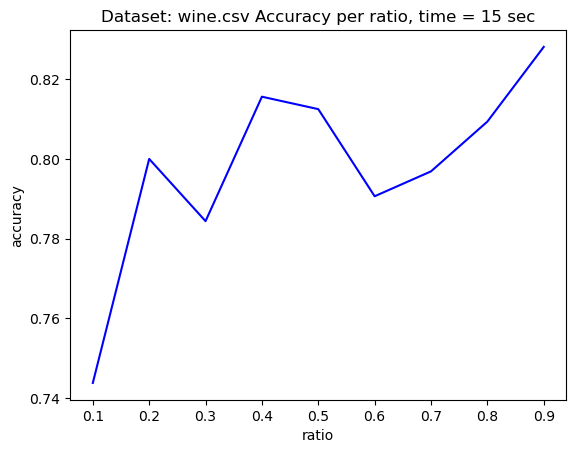
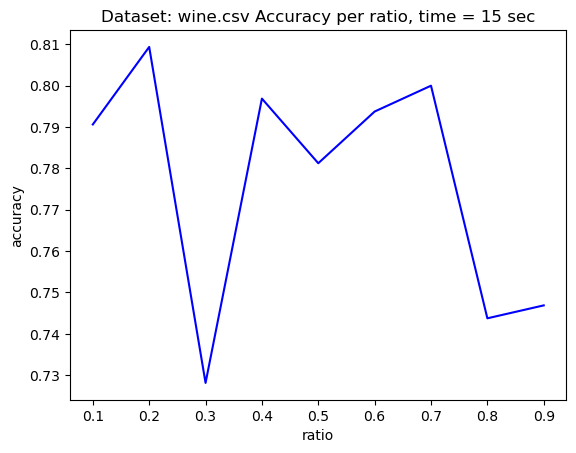
new algorithm for choosing params. graphs

diff --git a/Configuration.py b/Configuration.py
@@ -33,7 +33,7 @@ DIRECTORY = "anytime_feature_selection_first/"
 TIME_GRAPH_DIRECTORY = "TimePerK/"
 
 #Input for the the tunning model
-INPUT = ("datasets/data-ori.csv", 150)
+INPUT = ("datasets/nba_logreg.csv", 15)
 
 #Time per each step in the algorithm
 FEATURE_SELECTION_TIME_RATIO  =   1
@@ -62,8 +62,8 @@ RandomForestClassifier_HP = [{"max_depth": [25, 50,100,200,250], 'min_samples_sp
 
 AdaBoostClassifier_HP = [{'n_estimators': [10, 15, 20, 25, 50, 75], 'learning_rate': [0.01, 0.015, 0.02, 0.05, 0.1]}]
 
-SVC_HP = [{'kernel': ['rbf', 'sigmoid', 'poly', 'linear'], 'gamma': [1e-4], 'degree': [1, 2, 3, 4, 5], 'shrinking': [True, False],
-               'C': [2, 3, 4, 5, 6]}]
+SVC_HP = [{'kernel': ['rbf', 'sigmoid', 'poly', 'linear'], 'gamma': [0.1,0.5,0.7,0.8,0.9,1,1.1,1.3], 'degree': [1, 2, 3, 4, 5], 'shrinking': [True, False],
+               'C': [0.1,0.5,0.7,0.8,0.9,1,1.1,1.3]}]
 
 MODELS = [KNeighborsClassifier, RandomForestClassifier, AdaBoostClassifier,
           svm.SVC, DecisionTreeClassifier, GaussianNB, GaussianProcessClassifier, MLPClassifier]

diff --git a/SearchParameters.py b/SearchParameters.py
@@ -194,7 +194,7 @@ def main():
     #     k += 1
     #     print(f"Ratio {ratio} done!")
 
-    for i in range(1,4):
+    for i in range(4,7):
         test_acc = []
         dataset_name = dataset.split("/")[1]
         plt.title(f"Dataset: {dataset_name} Accuracy per ratio, time = {total_time * i} sec")
